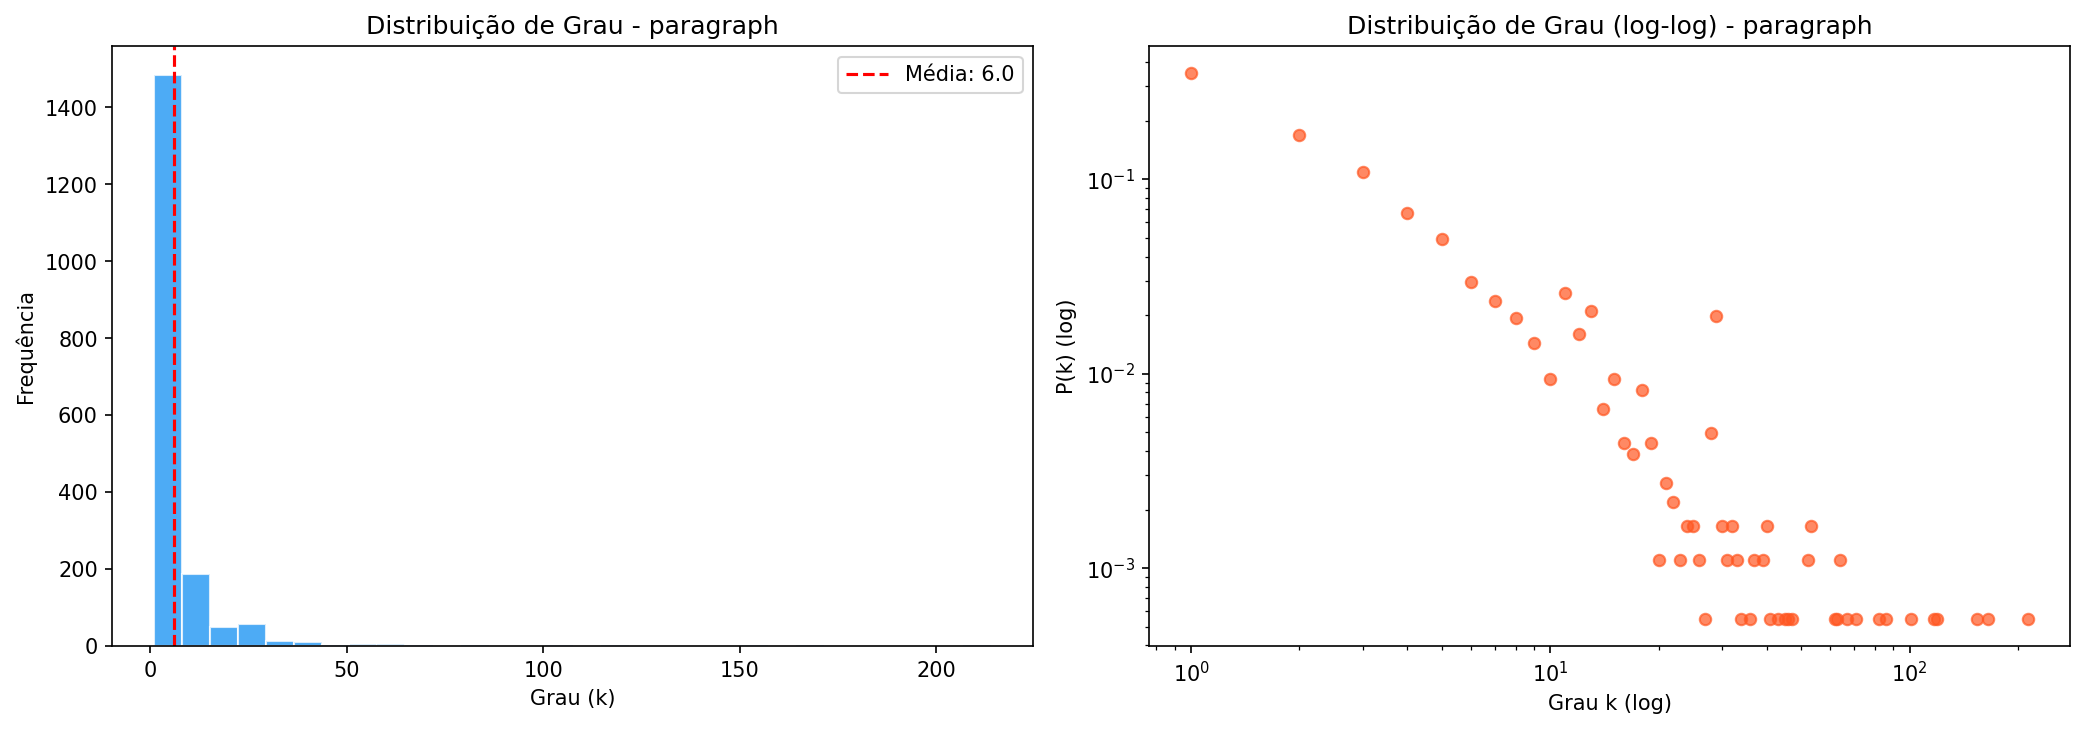
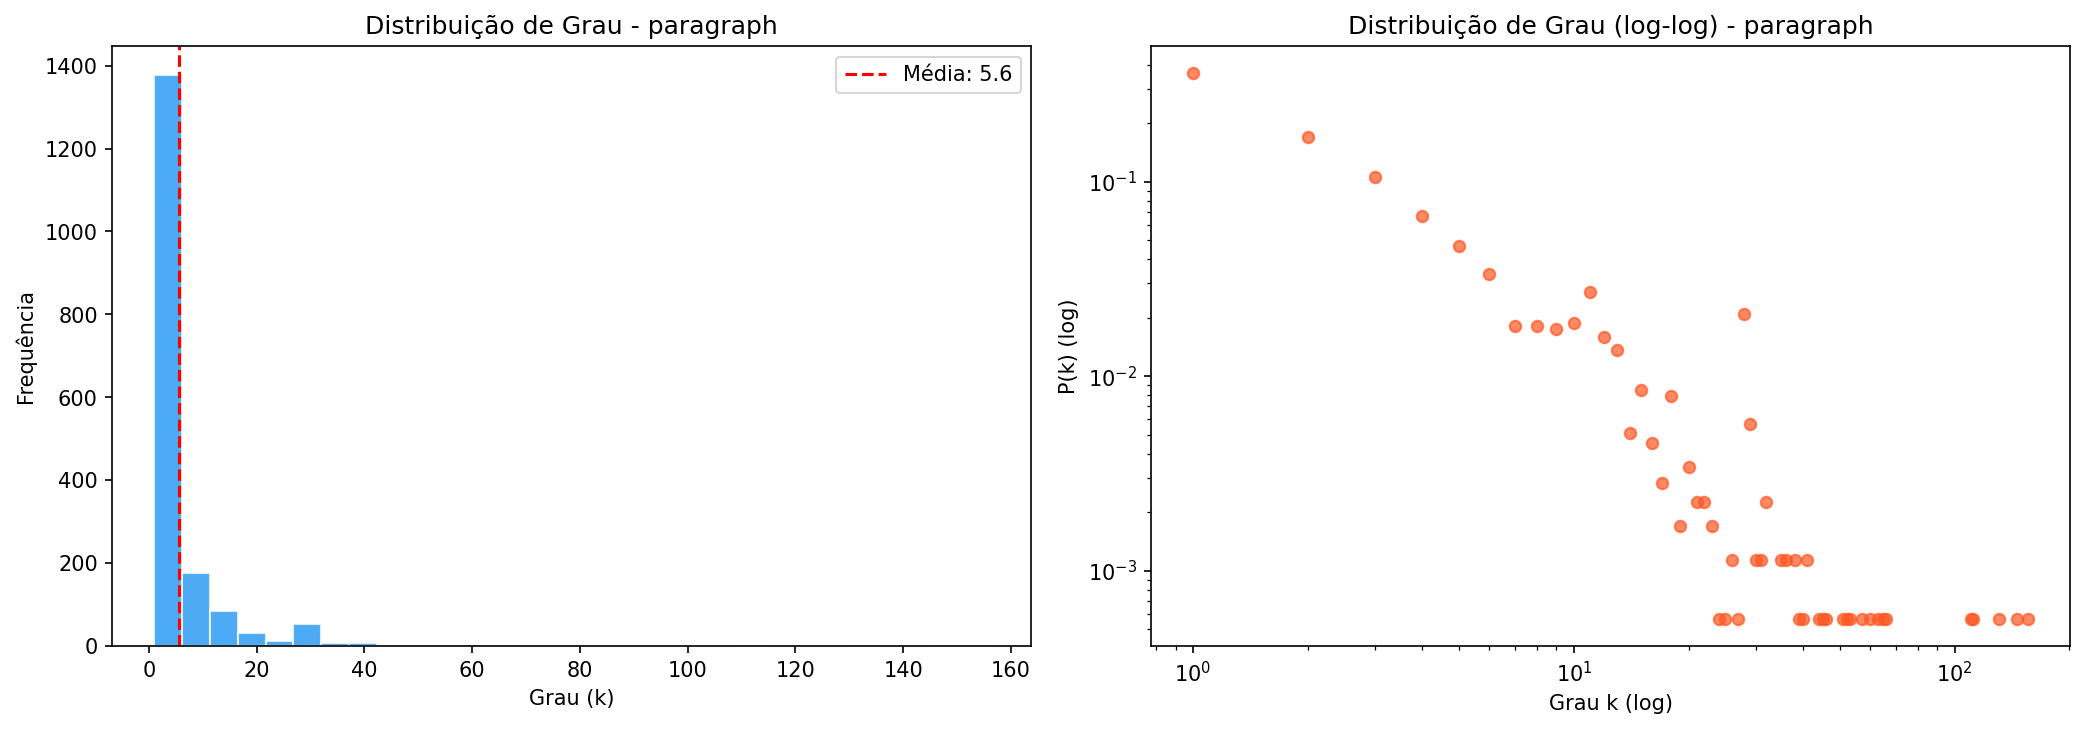
Filter NER noise: stopwords, path fragments, ambiguous words

diff --git a/ner_pipeline.py b/ner_pipeline.py
@@ -44,35 +44,50 @@ class Entity:
 
 # Bibliotecas/pacotes conhecidos (npm / Node.js)
 KNOWN_LIBRARIES = {
-    "react", "next", "express", "fastify", "koa", "nest", "nestjs",
-    "axios", "fetch", "node-fetch", "got", "superagent",
+    "react", "nextjs", "express", "fastify", "koa", "nest", "nestjs",
+    "axios", "node-fetch", "superagent",
     "zod", "yup", "joi", "ajv", "typebox",
     "prisma", "typeorm", "sequelize", "knex", "drizzle",
     "jest", "vitest", "mocha", "chai", "playwright", "cypress",
     "webpack", "vite", "esbuild", "rollup", "turbopack", "swc",
     "tailwind", "styled-components", "emotion", "sass",
     "redux", "zustand", "mobx", "jotai", "recoil",
-    "lodash", "ramda", "date-fns", "dayjs", "moment",
+    "lodash", "lodash-es", "ramda", "date-fns", "dayjs",
     "winston", "pino", "bunyan",
     "openai", "langchain", "anthropic", "claude",
-    "ink", "chalk", "ora", "commander", "yargs", "meow",
-    "socket.io", "ws", "rxjs",
-    "sharp", "jimp", "puppeteer",
-    "sentry", "datadog",
+    "ink", "chalk", "commander", "yargs", "meow",
+    "socket.io", "rxjs",
+    "puppeteer", "jimp",
+    "sentry", "datadog", "growthbook",
     "eslint", "prettier", "biome",
 }
 
 # Tecnologias e frameworks
 KNOWN_TECH = {
-    "python", "javascript", "typescript", "rust", "go", "java", "c++",
+    "python", "javascript", "typescript", "rust", "java", "c++",
     "docker", "kubernetes", "k8s", "git", "github", "gitlab",
     "linux", "ubuntu", "windows", "macos",
     "postgresql", "mysql", "mongodb", "redis", "elasticsearch",
     "api", "rest", "graphql", "grpc", "websocket",
     "ci/cd", "jenkins", "github actions", "terraform", "ansible",
-    "llm", "gpt", "bert", "transformer", "attention", "embedding",
-    "machine learning", "deep learning", "nlp", "ner", "cnn", "rnn",
+    "llm", "gpt", "bert", "transformer", "embedding",
+    "machine learning", "deep learning", "nlp", "ner",
+    "oauth", "jwt", "mcp",
+}
+
+# Palavras a ignorar — path fragments, protocolos genéricos, palavras ambíguas
+STOPWORDS = {
+    # path fragments comuns em imports TS
+    "src", "lib", "dist", "types", "utils", "index", "test", "tests",
+    "config", "scripts", "build", "out", "tmp", "vendor",
+    # protocolos genéricos (pouco valor semântico)
     "http", "https", "tcp", "udp", "ssh",
+    # palavras ambíguas que geram falsos positivos
+    "go", "next", "fetch", "path", "ora", "got", "ws",
+    "attention", "sharp", "moment",
+    # erros comuns, JS builtins
+    "error", "string", "number", "boolean", "object", "array",
+    "null", "undefined", "void", "any", "never", "unknown",
 }
 
 
@@ -86,12 +101,12 @@ def extract_code_entities(text: str, source_file: str = "") -> list[Entity]:
     # 1. TS/JS imports: import ... from 'package'
     for match in re.finditer(r"""import\s+(?:type\s+)?(?:[\w*${}\s,]+\s+from\s+)?['"]([^'"]+)['"]""", text):
         pkg = match.group(1)
-        # Pegar nome do pacote (sem caminhos relativos)
         if not pkg.startswith("."):
             base = pkg.split("/")[0].lstrip("@")
-            if base.lower() in KNOWN_LIBRARIES or len(base) > 2:
+            name = base.lower()
+            if name not in STOPWORDS and (name in KNOWN_LIBRARIES or len(base) > 2):
                 entities.append(Entity(
-                    text=base.lower(), label="LIB", source_file=source_file,
+                    text=name, label="LIB", source_file=source_file,
                     start=match.start(), end=match.end()
                 ))
 
@@ -113,7 +128,6 @@ def extract_code_entities(text: str, source_file: str = "") -> list[Entity]:
     # 4. Bibliotecas conhecidas mencionadas no texto
     for lib in KNOWN_LIBRARIES:
         if lib in text_lower:
-            # Verificar se não é parte de outra palavra
             pattern = r'\b' + re.escape(lib) + r'\b'
             if re.search(pattern, text_lower):
                 entities.append(Entity(
@@ -130,9 +144,14 @@ def extract_code_entities(text: str, source_file: str = "") -> list[Entity]:
                 ))
 
     # 6. CamelCase como possíveis classes/tipos
+    camelcase_ignore = {
+        "TypeError", "ValueError", "KeyError", "IndexError",
+        "RangeError", "SyntaxError", "ReferenceError",
+        "PowerShell", "JavaScript", "TypeScript",
+    }
     for match in re.finditer(r'\b([A-Z][a-z]+(?:[A-Z][a-z]+)+)\b', text):
         name = match.group(1)
-        if name not in ("TypeError", "ValueError", "KeyError", "IndexError"):
+        if name not in camelcase_ignore and name.lower() not in STOPWORDS:
             entities.append(Entity(
                 text=name, label="CLASS", source_file=source_file,
                 start=match.start(), end=match.end()

diff --git a/docs/extraction-report.md b/docs/extraction-report.md
@@ -26,43 +26,44 @@
 
 ## Métricas dos grafos de co-ocorrência
 
-NER executado com regex + dicionários (sem spaCy).
+NER executado com regex + dicionários (sem spaCy), com filtragem de ruído
+(stopwords para path fragments, protocolos genéricos e palavras ambíguas).
 
 ### Métricas gerais
 
 | Métrica                | Sentença | Parágrafo | K-chars (500) |
 |------------------------|----------|-----------|---------------|
-| Nós                    | 955      | 1.819     | 1.812         |
-| Arestas                | 1.152    | 5.456     | 4.538         |
-| Densidade              | 0,0025   | 0,0033    | 0,0028        |
-| Grau médio             | 2,41     | 6,00      | 5,01          |
-| Grau máximo            | 58       | 214       | 189           |
-| Componentes conectados | 180      | 144       | 150           |
-| Maior componente (%)   | 49,2%    | 78,6%     | 77,0%         |
-| Diâmetro               | 17       | 9         | 10            |
-| Caminho médio          | 4,52     | 3,85      | 3,98          |
-| Clustering médio       | 0,2213   | 0,4942    | 0,4676        |
-| Transitividade         | 0,2055   | 0,3332    | 0,2716        |
+| Nós                    | 921      | 1.763     | 1.756         |
+| Arestas                | 1.064    | 4.931     | 4.163         |
+| Densidade              | 0,0025   | 0,0032    | 0,0027        |
+| Grau médio             | 2,31     | 5,59      | 4,74          |
+| Grau máximo            | 54       | 156       | 128           |
+| Componentes conectados | 183      | 166       | 175           |
+| Maior componente (%)   | 48,3%    | 74,9%     | 73,0%         |
+| Diâmetro               | 17       | 12        | 13            |
+| Caminho médio          | 4,63     | 4,16      | 4,39          |
+| Clustering médio       | 0,2271   | 0,4864    | 0,4529        |
+| Transitividade         | 0,2010   | 0,3910    | 0,3346        |
 
 ### Top 10 entidades por grau (parágrafo)
 
 | Entidade     | Tipo  | Grau |
 |-------------|-------|------|
-| src          | LIB   | 214  |
-| claude       | LIB   | 165  |
-| api          | TECH  | 154  |
-| git          | TECH  | 119  |
-| anthropic    | LIB   | 117  |
-| next         | LIB   | 101  |
-| https        | TECH  | 86   |
-| powershell   | CLASS | 82   |
-| github       | TECH  | 71   |
-| ink          | LIB   | 67   |
+| claude       | LIB   | 156  |
+| api          | TECH  | 146  |
+| mcp          | TECH  | 131  |
+| git          | TECH  | 112  |
+| anthropic    | LIB   | 110  |
+| github       | TECH  | 66   |
+| oauth        | TECH  | 65   |
+| ink          | LIB   | 63   |
+| react        | LIB   | 60   |
+| windows      | TECH  | 57   |
 
 ## Figuras geradas
 
-| Arquivo                          | Conteúdo                               |
-|----------------------------------|----------------------------------------|
+| Arquivo                              | Conteúdo                           |
+|--------------------------------------|------------------------------------|
 | `figures/degree_dist_sentence.png`   | Distribuição de grau — sentença    |
 | `figures/degree_dist_paragraph.png`  | Distribuição de grau — parágrafo   |
 | `figures/degree_dist_k_chars.png`    | Distribuição de grau — k-chars     |
@@ -82,44 +83,46 @@ rica para NER de linguagem natural quando spaCy for adicionado.
 
 ### 2. Comparação entre granularidades
 
-- **Sentença** produz o grafo mais esparso (densidade 0,0025, grau médio 2,4).
-  Apenas 49% dos nós estão no maior componente, com diâmetro alto (17),
+- **Sentença** produz o grafo mais esparso (densidade 0,0025, grau médio 2,3).
+  Apenas 48% dos nós estão no maior componente, com diâmetro alto (17),
   indicando muitos clusters isolados.
-- **Parágrafo** gera o grafo mais denso (5.456 arestas, grau médio 6,0).
-  79% dos nós no maior componente, diâmetro menor (9), clustering alto (0,49).
+- **Parágrafo** gera o grafo mais denso (4.931 arestas, grau médio 5,6).
+  75% dos nós no maior componente, diâmetro 12, clustering alto (0,49).
   Melhor para capturar relações semânticas entre entidades.
 - **K-chars (500)** fica entre os dois — mesma quantidade de nós que parágrafo
-  mas com menos arestas, sugerindo que a janela fixa perde co-ocorrências
-  de longa distância que o parágrafo natural captura.
+  mas com menos arestas (4.163 vs 4.931), sugerindo que a janela fixa perde
+  co-ocorrências de longa distância que o parágrafo natural captura.
 
 ### 3. Entidades centrais
 
-- **`src`** aparece como nó mais conectado (grau 214) por ser parte dos
-  caminhos de import (`../src/...`) — pode ser filtrado como ruído.
-- **`claude`** e **`anthropic`** são os hubs reais da rede, conectando
-  módulos de API, autenticação, e ferramentas.
-- **`api`**, **`git`**, **`github`** refletem as tecnologias centrais do
-  projeto (API da Anthropic, operações git).
-- **`ink`** e **`react`** indicam a stack de UI (Ink é o framework React
-  para CLIs que o Claude Code usa).
+- **`claude`** é o hub principal da rede (grau 156), conectando módulos de
+  API, ferramentas, autenticação e UI.
+- **`api`** e **`mcp`** (Model Context Protocol) são as tecnologias centrais,
+  refletindo a arquitetura do Claude Code como cliente de API com suporte a MCP.
+- **`git`** e **`github`** refletem integração forte com controle de versão.
+- **`oauth`** indica o subsistema de autenticação.
+- **`ink`** e **`react`** revelam a stack de UI (Ink é o framework React para
+  CLIs que o Claude Code usa).
 
 ### 4. Propriedades de rede
 
-- O clustering médio alto (0,49 em parágrafo) indica forte agrupamento
-  local — entidades que co-ocorrem tendem a formar triângulos, refletindo
-  módulos coesos.
-- A transitividade (0,33 em parágrafo) sugere estrutura de comunidades
-  — provável que Louvain revele clusters temáticos (tools, UI, API, auth).
+- O clustering médio alto (0,49 em parágrafo) indica forte agrupamento local —
+  entidades que co-ocorrem tendem a formar triângulos, refletindo módulos coesos.
+- A transitividade (0,39 em parágrafo) sugere estrutura de comunidades claras —
+  provável que Louvain revele clusters temáticos (tools, UI, API, auth, MCP).
+- O diâmetro de 12 (parágrafo) indica que as entidades mais distantes da rede
+  ainda estão a no máximo 12 passos, sugerindo boa conectividade interna.
 
-### 5. Problemas identificados
+### 5. Filtragem de ruído aplicada
 
-- `src` como LIB é falso positivo — path fragment, não biblioteca.
-- `powershell` classificado como CLASS (por ser CamelCase) — deveria ser TECH.
-- `next` como LIB pode ser ambíguo (Next.js vs palavra "next").
+Foram removidos das entidades:
+- **Path fragments:** `src`, `lib`, `dist`, `types`, `utils`, `index`, `vendor`
+- **Protocolos genéricos:** `http`, `https`, `tcp`, `udp`, `ssh`
+- **Palavras ambíguas:** `go`, `next`, `fetch`, `path`, `moment`, `sharp`
+- **CamelCase falsos positivos:** `PowerShell`, `JavaScript`, `TypeError`, etc.
 
 ### 6. Próximos passos
 
-- Filtrar ruído: remover `src`, caminhos relativos, e palavras comuns dos nós.
 - Rodar com spaCy (`en_core_web_lg`) para entidades de linguagem natural.
 - Detecção de comunidades (Louvain) para identificar clusters temáticos.
 - Visualização interativa com pyvis.
